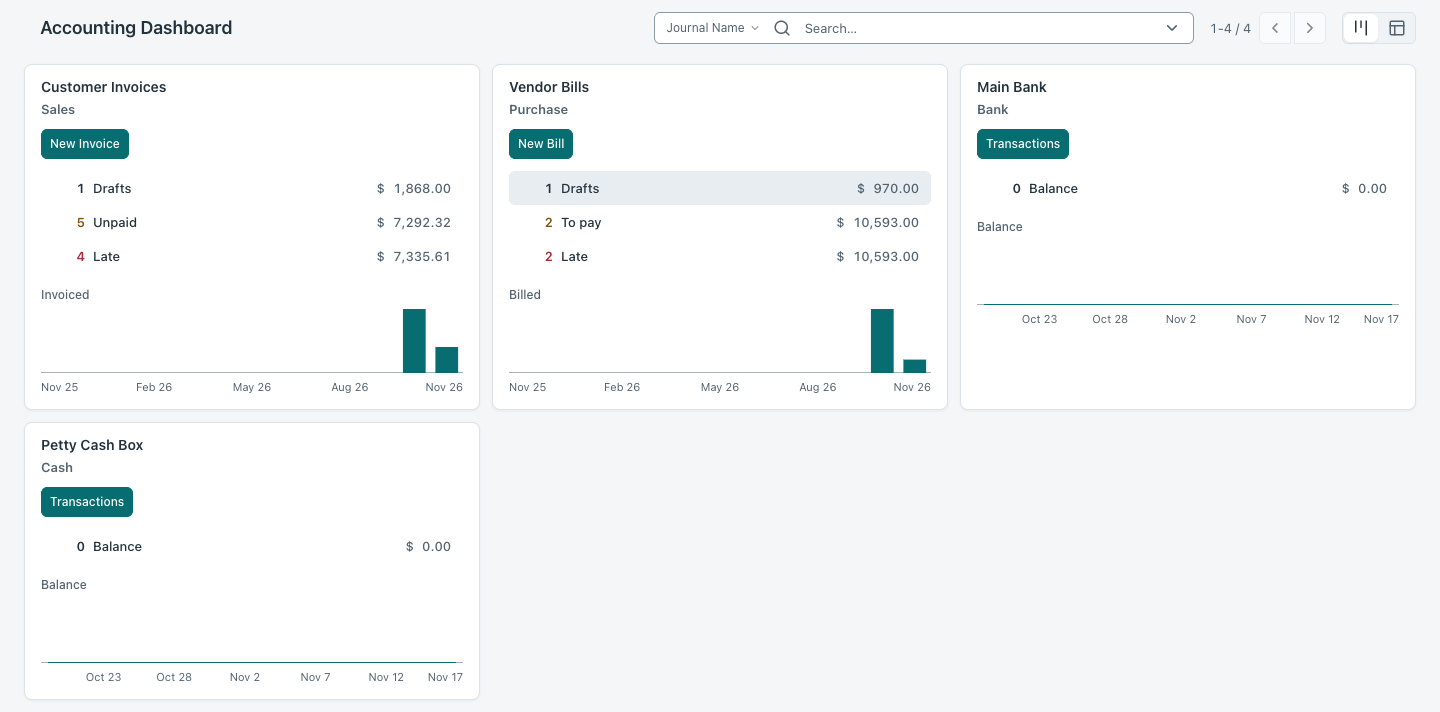
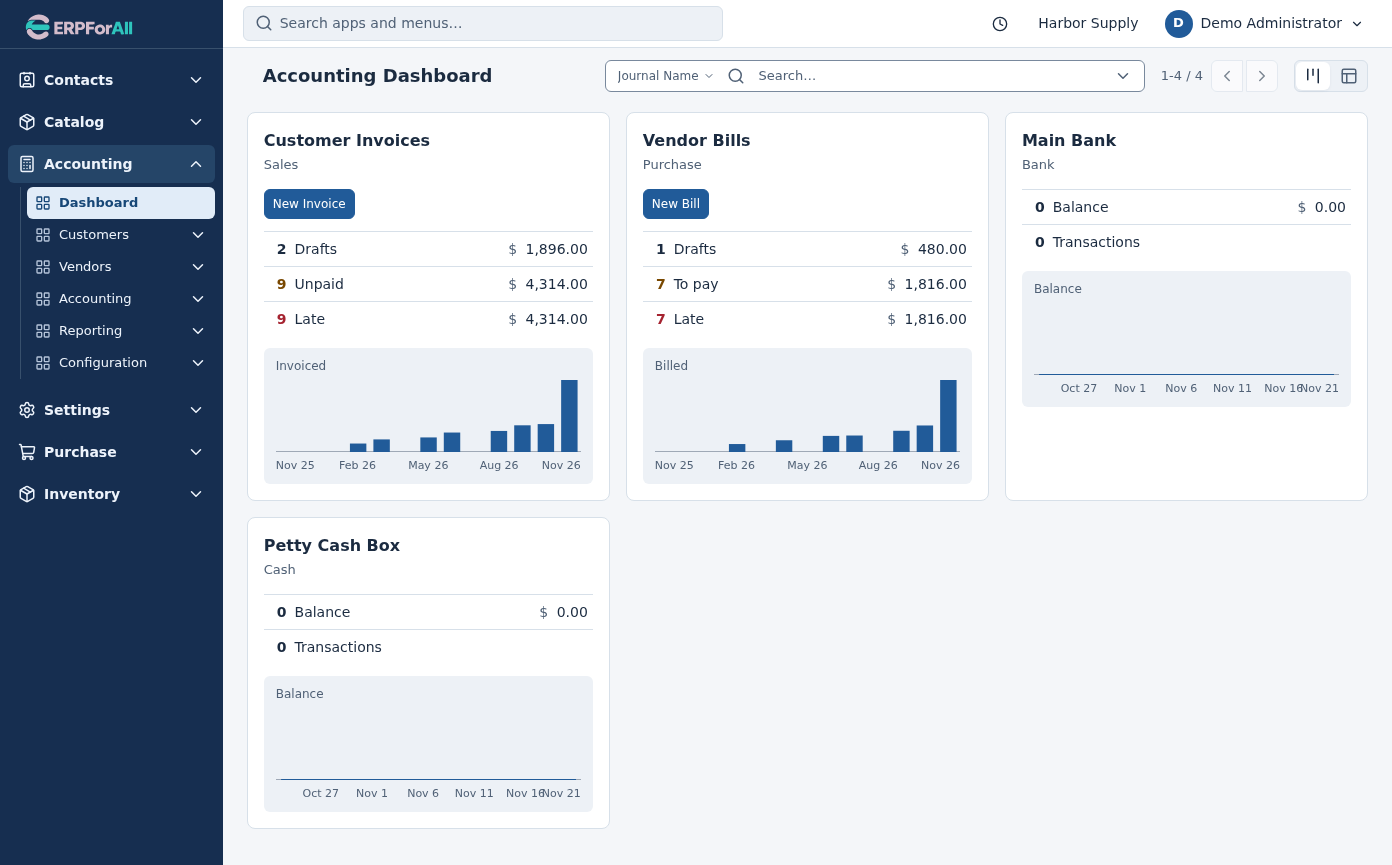
Tour the retail workspaces in Office Blue and Default
README and screenshots only. The application source stays at the previously published revisions 69f0493129..d17801652e.

diff --git a/README.md b/README.md
@@ -21,6 +21,7 @@
 
 <p align="center">
   <a href="https://indoerp.github.io/ERPForAll/"><b>Documentation</b></a> ·
+  <a href="#inside-the-workspace">Screenshots</a> ·
   <a href="#what-works-today">What works today</a> ·
   <a href="#how-an-addon-looks">How an addon looks</a> ·
   <a href="#get-started">Get started</a> ·
@@ -29,14 +30,11 @@
 </p>
 
 <p align="center">
-  <img src=".github/assets/accounting-dashboard.png" alt="The accounting dashboard: journal cards for customer invoices, vendor bills, bank and cash, with counts, amounts and a chart" width="900">
+  <a href=".github/assets/accounting-dashboard.png"><img src=".github/assets/accounting-dashboard.png" alt="Office Blue accounting dashboard with a navy sidebar, unpaid invoices, vendor bills and monthly billing charts" width="1120"></a><br>
+  <sub>Office Blue · Accounting dashboard</sub>
 </p>
 
-> [!IMPORTANT]
-> **Status: early development. Not ready to run a business yet.** The framework core works and is tested. The first
-> business applications (accounting, inventory, sales, purchase) run in early versions: you can enter and post
-> invoices, register their payments, print your documents and move stock on a test database, but bank statements,
-> invoices made from orders and much more are still missing. Try it, read the code, tell us what you find.
+**Early development. Not ready to run a business yet.** Try ERPForAll with sample data. You can post an invoice, trace a ledger balance to its journal items, and follow a retail order into the warehouse. The business applications are still growing.
 
 ## Why ERPForAll
 
@@ -54,8 +52,7 @@ one Odoo developers know, and builds what is underneath anew:
 
 ## What works today
 
-Everything below is in this repository and runs on our test server. "Early" means the main path works and known
-gaps remain; the main ones are listed under the table.
+These workflows are available in the public source. Install the bridge addons to connect Sales and Purchase to Inventory.
 
 ### Framework
 
@@ -73,29 +70,25 @@ gaps remain; the main ones are listed under the table.
 
 | Application | What you can do |
 |---|---|
-| **Accounting** | A dashboard of journal cards; customer invoices and vendor bills with lines, taxes and totals; posting, which opens its fiscal periods; journal entries and items; taxes and tax groups; payment terms with instalments; payments registered from invoices and bills, matched and unmatched (one currency); printed invoices, credit notes and bills; journal items in other currencies |
-| **Inventory** | A warehouse with its locations and operation types for every company; an overview of the operation types; transfers that are confirmed, reserved, validated and cancelled; printed delivery slips, receipts and picking lists |
-| **Sales** | Quotations and sales orders with list prices, pricelists and taxes; confirm, lock and cancel; printed quotations and orders |
-| **Purchase** | Requests for quotation and purchase orders with vendor prices and taxes; an approval limit; printed requests for quotation and orders |
-| **Products** | Products and variants, pictures, barcodes, packagings, units of measure |
-| **Contacts** | Companies and people, tags, company and contact fields kept in step |
-| **Mail** | Messages, internal notes, followers and attachments on records (the chatter), with a history line for each tracked change, on products, invoices, orders and transfers |
+| **Accounting** | Post invoices and vendor bills, register single-currency payments, and print credit notes. Explore the general ledger, partner ledger, trial balance, balance sheet and profit and loss. Open source journal items where the report supports it, or export the report to PDF or XLSX. |
+| **Inventory** | Track receipts, deliveries and internal transfers by warehouse. Reserve stock, validate a transfer and print delivery slips, receipts and picking lists. |
+| **Sales** | Quote products using pricelists and taxes, confirm a sales order, and create its direct warehouse delivery with the Sales–Inventory bridge. |
+| **Purchase** | Request vendor quotations, approve purchase orders and create a direct receipt for an eligible order with the Purchase–Inventory bridge. |
+| **Products and contacts** | Manage product variants, barcodes, packaging and units of measure. Keep companies, people and tags in the contacts directory. |
+| **Collaboration** | Post messages, internal notes and attachments on orders, transfers and invoices. Follow a record to keep up with changes. |
 
-Not there yet, among others: bank statements and their reconciliation, payments in other currencies, invoices made
-from sales orders, receipts from purchase orders, lots and serial numbers, backorders.
+The default theme and the optional **Office Blue** theme use the same forms, lists and keyboard controls. In either theme you can choose visible columns in a list or in the lines of a form.
+
+## Inside the workspace
 
 <table>
   <tr>
-    <td width="60%"><img src=".github/assets/invoice-form.png" alt="A posted customer invoice with two lines, taxes and totals"></td>
-    <td width="40%"><img src=".github/assets/inventory-overview.png" alt="The inventory overview: receiving and delivery operation types with their counts"></td>
-  </tr>
-  <tr>
-    <td align="center"><sub>A posted customer invoice</sub></td>
-    <td align="center"><sub>The inventory overview</sub></td>
+    <td width="72%" valign="top"><b>Customer invoice · Default</b><br>Review the invoice lines, quantities and total on the posted document.<br><br><a href=".github/assets/invoice-form.png"><img src=".github/assets/invoice-form.png" alt="Posted customer invoice with three itemized lines for a sample workshop order"></a></td>
+    <td width="28%" valign="top"><b>Inventory · Office Blue</b><br>Check receiving and delivery work from a phone.<br><br><a href=".github/assets/inventory-overview.png"><img src=".github/assets/inventory-overview.png" alt="Phone view of warehouse operation cards and transfer counts"></a></td>
   </tr>
 </table>
 
-<sub>Screenshots of a test database. All companies, products and amounts in them are invented demo data.</sub>
+The screenshots come from a self-hosted instance populated with fictional sample records. Select an image to view it at full size.
 
 ## How an addon looks
 
@@ -179,8 +172,8 @@ A one-command local setup with demo data is not available yet. It is one of the 
 
 ## Roadmap
 
-- **Now:** complete the early business applications: invoices from sales orders and bills from purchase orders,
-  receipts from purchase orders, bank statements, lots and serial numbers.
+- **Now:** complete the early business applications: deeper order-to-invoice and purchase-to-bill workflows,
+  bank statements and warehouse traceability.
 - **Next:** the remaining view types (gantt, map and others), a design pass over the whole web client, and a simple
   local setup.
 - **Later:** measured performance work, and more business applications built as addons.
